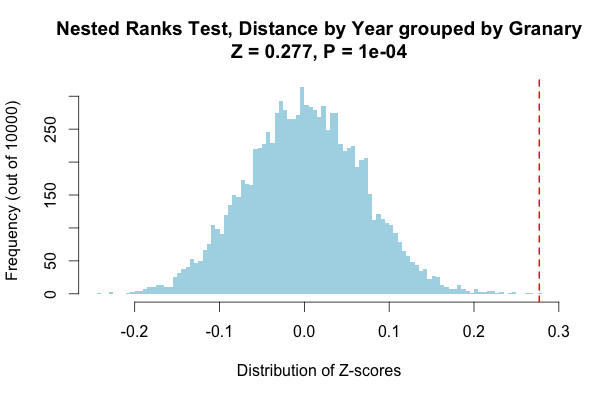
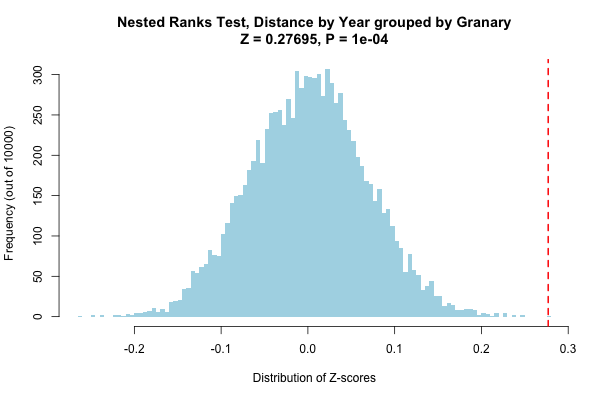
0.2: digits and doc/test tweaks

diff --git a/README.md b/README.md
@@ -28,7 +28,7 @@ Help is available via `?nestedRanksTest`, and a vignette is available via:
 vignette("nestedRanksTest")
 ```
 
-The development version is hosted here on github and can be installed via:
+The development version is hosted on github and can be installed via:
 
 ```R
 install.packages("devtools")
@@ -38,8 +38,8 @@ library(nestedRanksTest)
 
 * * *
 These statistical tools were developed in collaboration with Peter E.
-Smouse (Rutgers University) and Victoria L. Sork (UCLA) and were funded by
-U.S. National Science Foundation awards NSF-DEB-0514956 and
+Smouse (Rutgers University) and Victoria L. Sork (UCLA) and were funded
+in part by U.S. National Science Foundation awards NSF-DEB-0514956 and
 NSF-DEB-0516529.
 * * *
 
@@ -65,7 +65,7 @@ print(result)
 	Nested Ranks Test
 
 data:  Distance by Year grouped by Granary
-Z = 0.277, p-value = 1e-04
+Z = 0.27695, p-value = 1e-04
 alternative hypothesis: Z lies above bootstrapped null values
 null values:
       0%       1%       5%      10%      25%      50%      75%      90%      95%

diff --git a/NEWS.md b/NEWS.md
@@ -1,7 +1,7 @@
-# nestedRanksTest 0.1.9000 (development version)
+# nestedRanksTest 0.2
 
-* Output of `print.htest_boot` now recognises `digits` and `prefix` options and for `digits` the default is `getOption("digits")`, just like `print.htest`
-* Tweak output of `print.htest_boot` so bootstarap iterations count is prefixed by ': ' rather than ' = ', for consistency with other printed values
+* Output of `print.htest_boot` now recognises `digits` and `prefix` options.  For `digits` the default is `getOption("digits")`, just as for `print.htest`.  Test result files are updated.
+* Tweak output of `print.htest_boot` so bootstrap iterations count is prefixed by ': ' rather than ' = ', for consistency with other printed values
 
 
 # nestedRanksTest 0.1

diff --git a/TODO.md b/TODO.md
@@ -1,7 +1,6 @@
 # For next version
 
 * Add class description to `R/htest_boot-class.R`
-* The forthcoming R includes `getOption("digits")`, add this check to `print.htest_boot`, see R development code at <https://github.com/wch/r-source/commit/7e90613c381a011a2f1a625bab5dfb01b63e83ec#diff-2fb78b80e16e1dbbb7e60b6721702ea1>
 * Is there more to be done generalising htest_boot?  Should it be a separate package?
 * Faster alternative to base R `rank` as that is the bootstrapping bottleneck
 * Is travis-ci.org a solution for continual integration?
